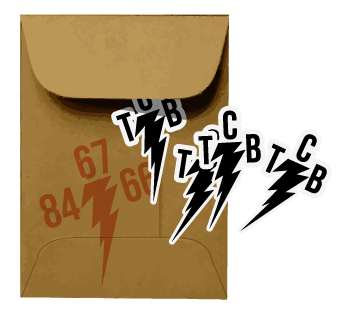
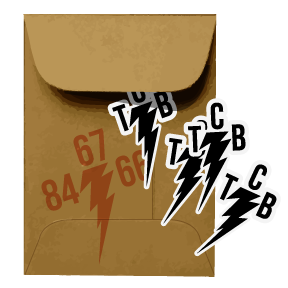
Gift section

Changed region(s): [[0.0312, 0.0312, 0.9688, 0.9688]]

diff --git a/assets/css/tcb_green.css b/assets/css/tcb_green.css
@@ -193,6 +193,7 @@ color: #CCC;
 
 .text-white {color:#FFF;}
 .text-gray {color:#666;}
+.text-lgray {color:#CCC;}
 
 
 

diff --git a/application/views/pages/zone.php b/application/views/pages/zone.php
@@ -55,7 +55,7 @@
 			<br/>
 			<div class=" col-sm-2 text-left basetxt txtsmall graytxt1">
 				<a class="btn btn-success" <?php echo "href='/auth/edit_user/".$tcbuser->id."'"; ?> > 
-				<i class="fa fa-gear fa-3x"></i><br/>Edit My Info</a>
+				<i class="fa fa-gear fa-3x text-white"></i><br/><span class="text-white">Edit My Info</span></a>
 			</div>
 		</div> <!-- close row -->	
 		<div class="row">
@@ -127,12 +127,11 @@
 				      		<div class="col-sm-7">
 
 				      			<span class="blacktxt txtsmaller">
-				      			TCB846766 it's a network of Tech Talent looking for projects to increase their experience
-				      			, get exposure to new projects, meet new people and why not make an extra money. If you know
-				      			someone interested in joining TCB please invite her/him here:
+				      				<h3 class="text-gray lead">Do you know a great addition to TCB?, invite her/him here</h3>
+
 				      			</span>
 				      			<br/>
-				      			<a class="btn btn-success pull-right" href="/auth/invite_user">Invite</a>
+				      			<a class="btn btn-success pull-right" href="/auth/invite_user"><span class="text-white">Invite</span></a>
 				      		</div>
 
 				      </div>
@@ -148,27 +147,54 @@
 				        </a>
 				      </h4>
 				    </div>
-				    <div id="collapseFour" class="panel-collapse collapse">
+				    <div id="collapseFour" class="panel-collapse collapse in">
 				      <div class="panel-body">
 				      	<div class="row">
-				      		<div class="col-sm-4">
-				      			<img class="img-responsive" src="<?php echo base_url('assets/img/tcb/tcb_stickerpack.png'); ?>" alt="846766"/>
+				      		<div class="col-sm-2">
+				      			<img class="img-responsive center-block" src="<?php echo base_url('assets/img/tcb/tcb-gift.png'); ?>" width="150px" alt="846766"/>
 
 				      		</div>
-				      		<div class="col-sm-8">
-				      			<span class="blacktxt txtsmaller">
-				      			Free goodies for TCB846766 Members. Redeem yours at www.retinal.co
-				      			</span>
+				      		<div class="col-sm-10">
+				      			
+				      			<h3 class="text-gray lead">Free goodies from TCB and Friends. </h3>
 
 				      			<hr/>
-				      			<a class="btn btn-default btn-sm"><h5>Sticker Pack</h5>  #TCB94884 </a>
 				      			
-				      			
+				      			<div class="row">
+				      				<div class="col-sm-4">
+				      						<div class="well text-center">
+				      						<span class="label label-success" style="float:left;">Direct gift</span>
+				      						<img class="img-responsive center-block" src="<?php echo base_url('assets/img/tcb/tcb_wpack.png'); ?>" width="200"/>
+				      						<br/>
+				      						<div class="text-small text-gray">Welcome Pack</div>
+				      						<div class="text-smaller">Code:tcb9s9e8f</div>
+				      							<a class="btn btn-xs btn-default">Redeem now</a>
+				      						</div>
+				      				</div>
+				      				<div class="col-sm-4">
+				      						<div class="well text-center">
+				      						<span class="label label-default" style="float:left;">Limited</span>
+				      						<img class="img-responsive center-block" src="<?php echo base_url('assets/img/tcb/tcb_stickerpack.png'); ?>" width="200"/>
+				      						<br/>
+				      						<div class="text-small text-gray">Sticker Pack</div>
+				      						<div class="text-smaller">Code:tcb6aw67</div>
+				      							<a class="btn btn-xs btn-default">Redeem now</a>
+				      						</div>
+				      				</div>
+				      				<div class="col-sm-4">
+				      						<div class="well text-center">
+				      						Coming Soon
+				      						<img class="img-responsive center-block" src="<?php echo base_url('assets/img/tcb/tcb_tshirt01.png'); ?>" width="200"/>
+				      						<br/>
+				      						<div class="text-small text-gray">TCB TShirt</div>
+				      						<div class="text-smaller">Code:tcb2kji39</div>
+				      							<div class="label label-default">Coming soon</div>
+				      						</div>
+				      				</div>
+				      				
+				      					
+				      			</div>	
 				      			<br/><br/>
-
-
-				      			<a class="btn btn-success" href="http://retinal.co/collections/frontpage/products/tcb-sticker">Redeem gifts</a>
-
 				      		</div>
 				      		
 				      	</div>

diff --git a/application/views/auth/email/activate.tpl.php b/application/views/auth/email/activate.tpl.php
@@ -1,0 +1,18 @@
+
+<html>
+<body>
+	<h1>Hello, you were invited to TCB.io</h1>
+	<h2><?php echo sprintf(lang('email_activate_subheading'), anchor('auth/activate/'. $id .'/'. $activation, lang('email_activate_link')));?></h2>
+
+
+	<br/>
+	
+	<h4>About TCB.io </h4>
+		<p>
+			TCB it's a network of startup experts: Coders, Designers and Data experts
+		</p>
+
+	<hr/>
+	<p><small><?php echo sprintf("Invitation sent to", $identity);?>. If you want to decline this invitation please forward this mail to: hello@tcb.io</small></p>
+</body>
+</html>

diff --git a/application/controllers/auth.php b/application/controllers/auth.php
@@ -359,7 +359,6 @@ class Auth extends CI_Controller {
 
 
 	//activate the user
-	//http://tcb.io/auth/activate/91/04ce9c2a2283ef9592b154a2023985b3248e8d4a
 	function activate($id, $code=false)
 	{
 		if ($code !== false)
